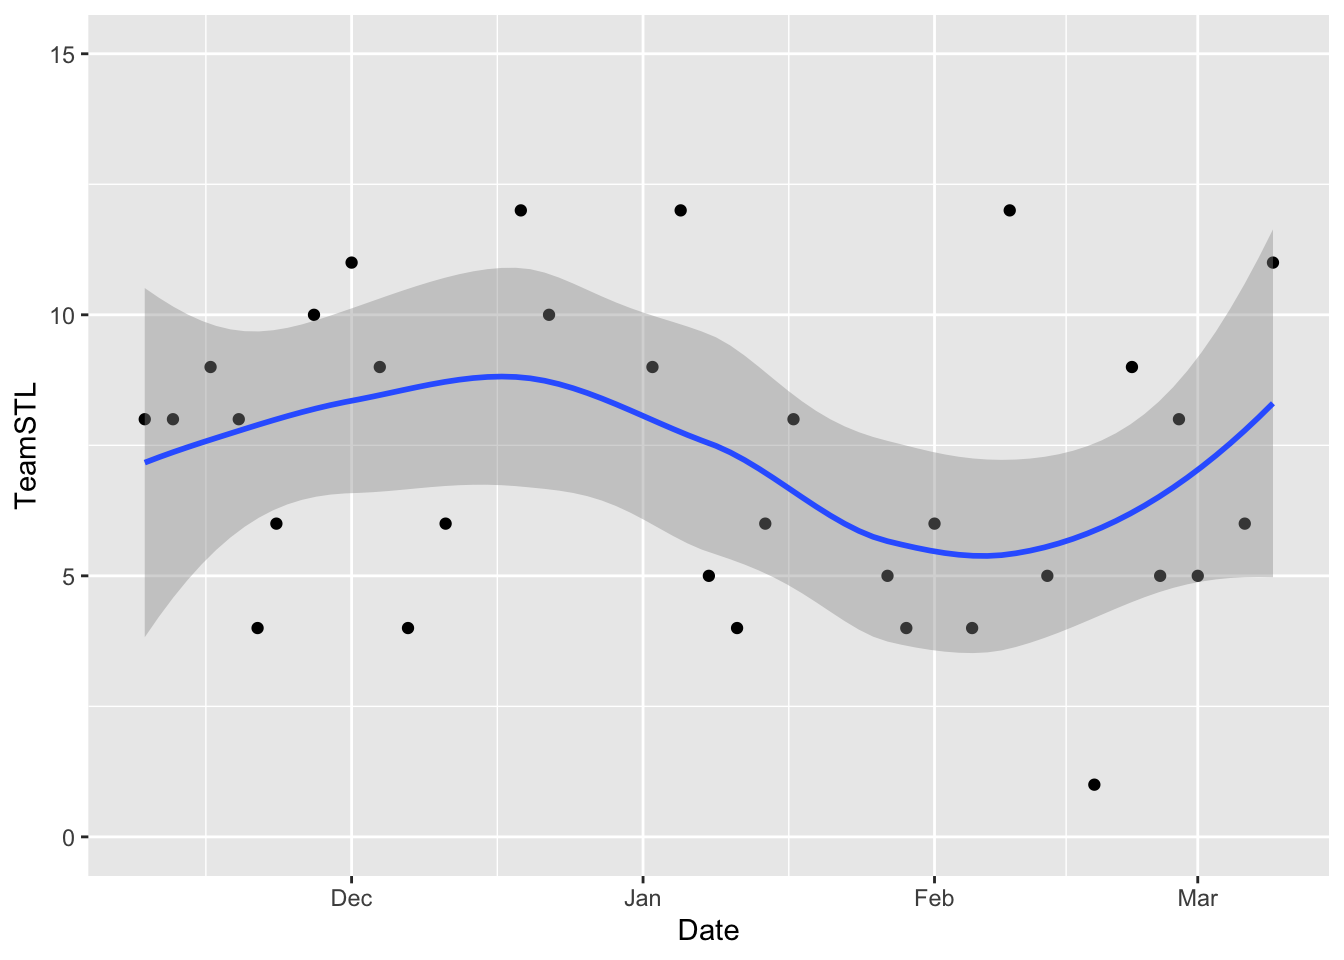
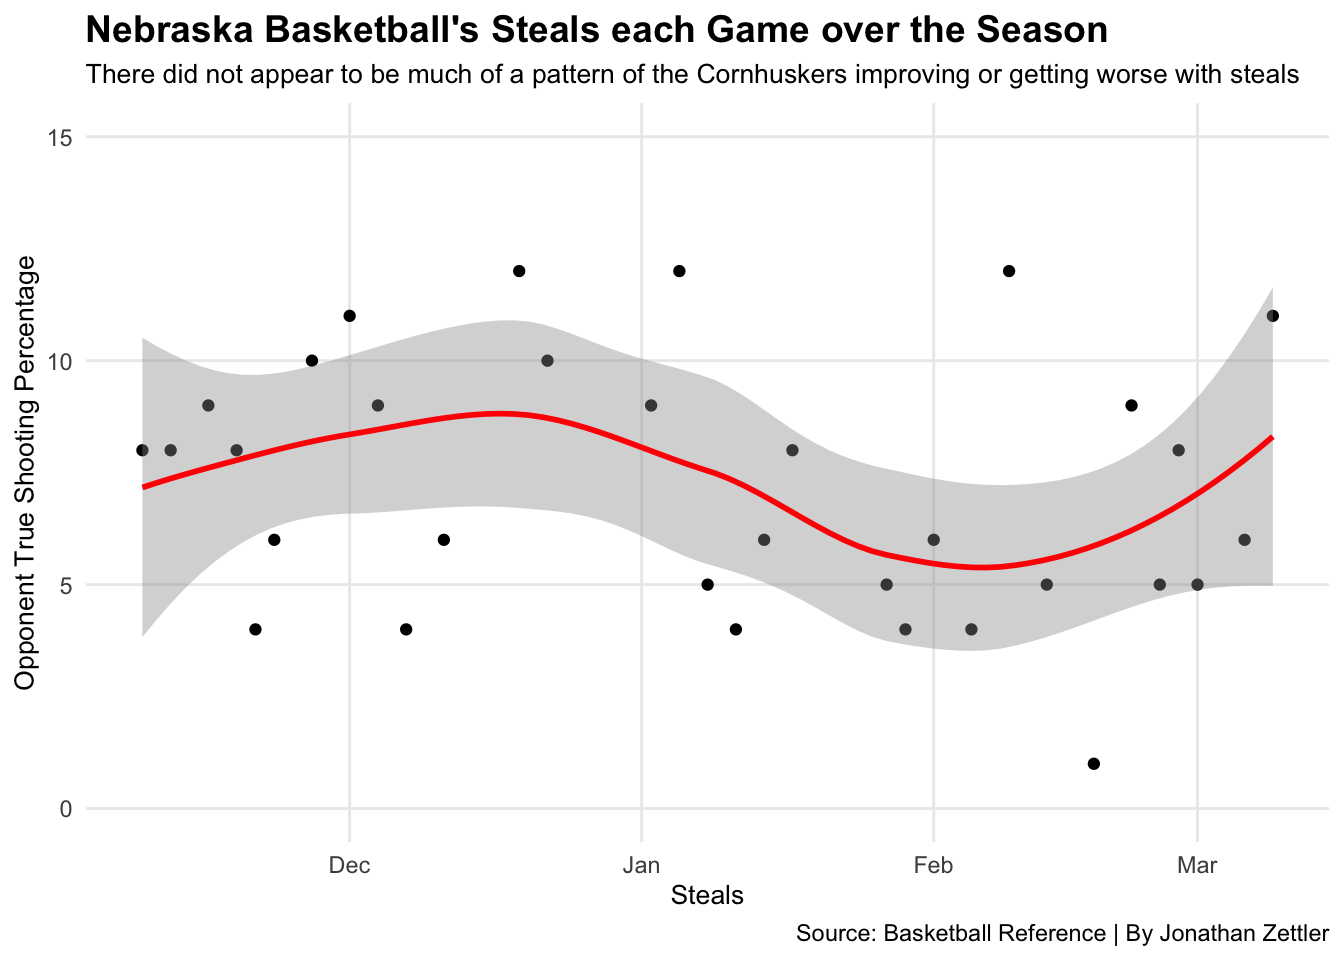
update

diff --git a/2022/03/31/did-nebraska-basketball-s-defense-improve-throughout-the-2021-2022-season/index.html b/2022/03/31/did-nebraska-basketball-s-defense-improve-throughout-the-2021-2022-season/index.html
@@ -62,7 +62,7 @@
 
   <article class="article">
     
-    <span class="article-duration">2 min read</span>
+    <span class="article-duration">3 min read</span>
     
 
     <h1 class="article-title">Did Nebraska Basketball Defense improve throughout the 2021-2022 Season</h1>
@@ -114,21 +114,48 @@ library(ggalt)</code></pre>
 ## 
 ## ℹ Use `spec()` to retrieve the full column specification for this data.
 ## ℹ Specify the column types or set `show_col_types = FALSE` to quiet this message.</code></pre>
+<p>To get a good look at how Nebraska’s defense changed throughout the season, I
+made line chart of how Nebraska’s opponents true shooting was against them over
+the course of the season.</p>
 <pre class="r"><code>logswithtrueshooting &lt;- logs %&gt;% mutate(
   OpponentTrueshootingPercentage = (OppScore/(2*(OppFGA + (.44*OppFTA))))*100 
 )</code></pre>
-<pre class="r"><code>ggplot() + geom_line(data=logswithtrueshooting, aes(x=Date, y=OpponentTrueshootingPercentage)) +
-  scale_y_continuous(limits = c(0, 90))</code></pre>
+<pre class="r"><code>ggplot() + geom_line(data=logswithtrueshooting, aes(x=Date, y=OpponentTrueshootingPercentage), color= &quot;red&quot;) +
+  scale_y_continuous(limits = c(0, 90)) +
+  labs(title=&quot;Nebraska&#39;s Opponents True Shooting Percentage against them&quot;, subtitle = &quot;The Cornhuskers defensive impact on their opponents shooting did not improve much throughout the season&quot;,  x=&quot;Date&quot;, y=&quot;Opponent True Shooting Percentage&quot;, caption =&quot;Source: Basketball Reference | By Jonathan Zettler&quot;) + 
+  theme_minimal() + 
+  theme(
+    plot.title = element_text(size = 14, face = &quot;bold&quot;),
+    axis.title = element_text(size = 10), 
+    plot.subtitle = element_text(size=10), 
+    panel.grid.minor = element_blank()
+    )</code></pre>
 <p><img src="http://jonathanzettlerblog.github.io/2022/03/31/did-nebraska-basketball-s-defense-improve-throughout-the-2021-2022-season/index_files/figure-html/unnamed-chunk-4-1.png" width="672" /></p>
 <pre class="r"><code>ggplot() + 
   geom_point(data=logswithtrueshooting, aes(x=Date, y=TeamSTL)) +
-  geom_smooth(data=logswithtrueshooting, aes(x=Date, y=TeamSTL)) +
-   scale_y_continuous(limits = c(0, 15))</code></pre>
+  geom_smooth(data=logswithtrueshooting, aes(x=Date, y=TeamSTL), color= &quot;red&quot;) +
+   scale_y_continuous(limits = c(0, 15)) +
+  labs(title=&quot;Nebraska Basketball&#39;s Steals each Game over the Season&quot;, subtitle = &quot;There did not appear to be much of a pattern of the Cornhuskers improving or getting worse with steals&quot;,  x=&quot;Steals&quot;, y=&quot;Opponent True Shooting Percentage&quot;, caption =&quot;Source: Basketball Reference | By Jonathan Zettler&quot;) + 
+  theme_minimal() + 
+  theme(
+    plot.title = element_text(size = 14, face = &quot;bold&quot;),
+    axis.title = element_text(size = 10), 
+    plot.subtitle = element_text(size=10), 
+    panel.grid.minor = element_blank()
+    )</code></pre>
 <pre><code>## `geom_smooth()` using method = &#39;loess&#39; and formula &#39;y ~ x&#39;</code></pre>
 <p><img src="http://jonathanzettlerblog.github.io/2022/03/31/did-nebraska-basketball-s-defense-improve-throughout-the-2021-2022-season/index_files/figure-html/unnamed-chunk-5-1.png" width="672" /></p>
 <pre class="r"><code>ggplot() + 
   geom_bar(data=logswithtrueshooting, aes(x=Date, weight=TeamBLK, fill= TeamBLK)) +
-  coord_polar()</code></pre>
+  coord_polar() +
+  labs(title=&quot;Nebraska&#39;s Blocks each game over the Season&quot;, subtitle = &quot;While huge improvement was not made with rim protection, Nebraska certinly ended season with more blocks than the games in the begining of the season&quot;,  x=&quot;Date&quot;, y=&quot;Blocks&quot;, caption =&quot;Source: Basketball Reference | By Jonathan Zettler&quot;) + 
+  theme_minimal() + 
+  theme(
+    plot.title = element_text(size = 14, face = &quot;bold&quot;),
+    axis.title = element_text(size = 10), 
+    plot.subtitle = element_text(size=10), 
+    panel.grid.minor = element_blank()
+    )</code></pre>
 <p><img src="http://jonathanzettlerblog.github.io/2022/03/31/did-nebraska-basketball-s-defense-improve-throughout-the-2021-2022-season/index_files/figure-html/unnamed-chunk-6-1.png" width="672" /></p>
 
     </div>
